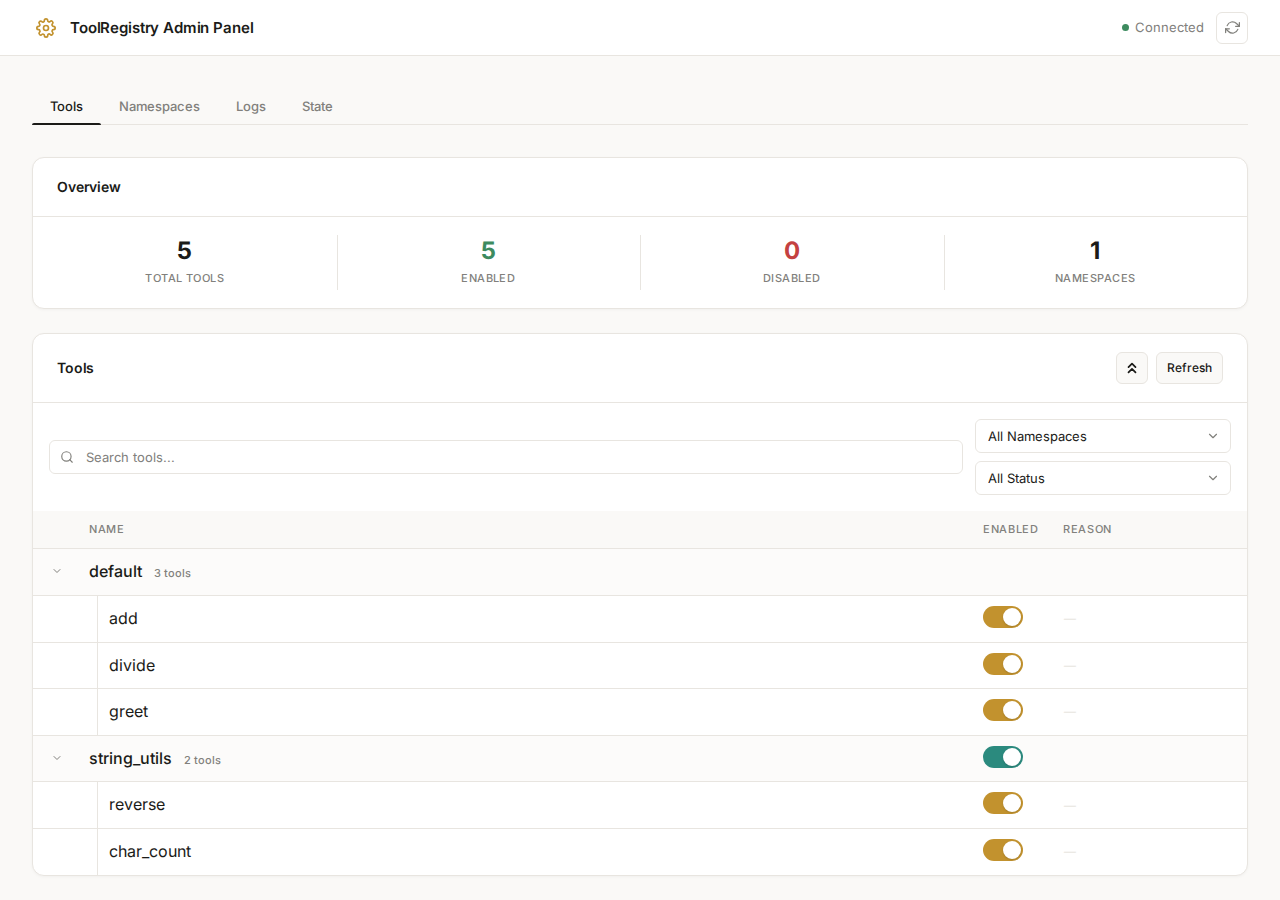
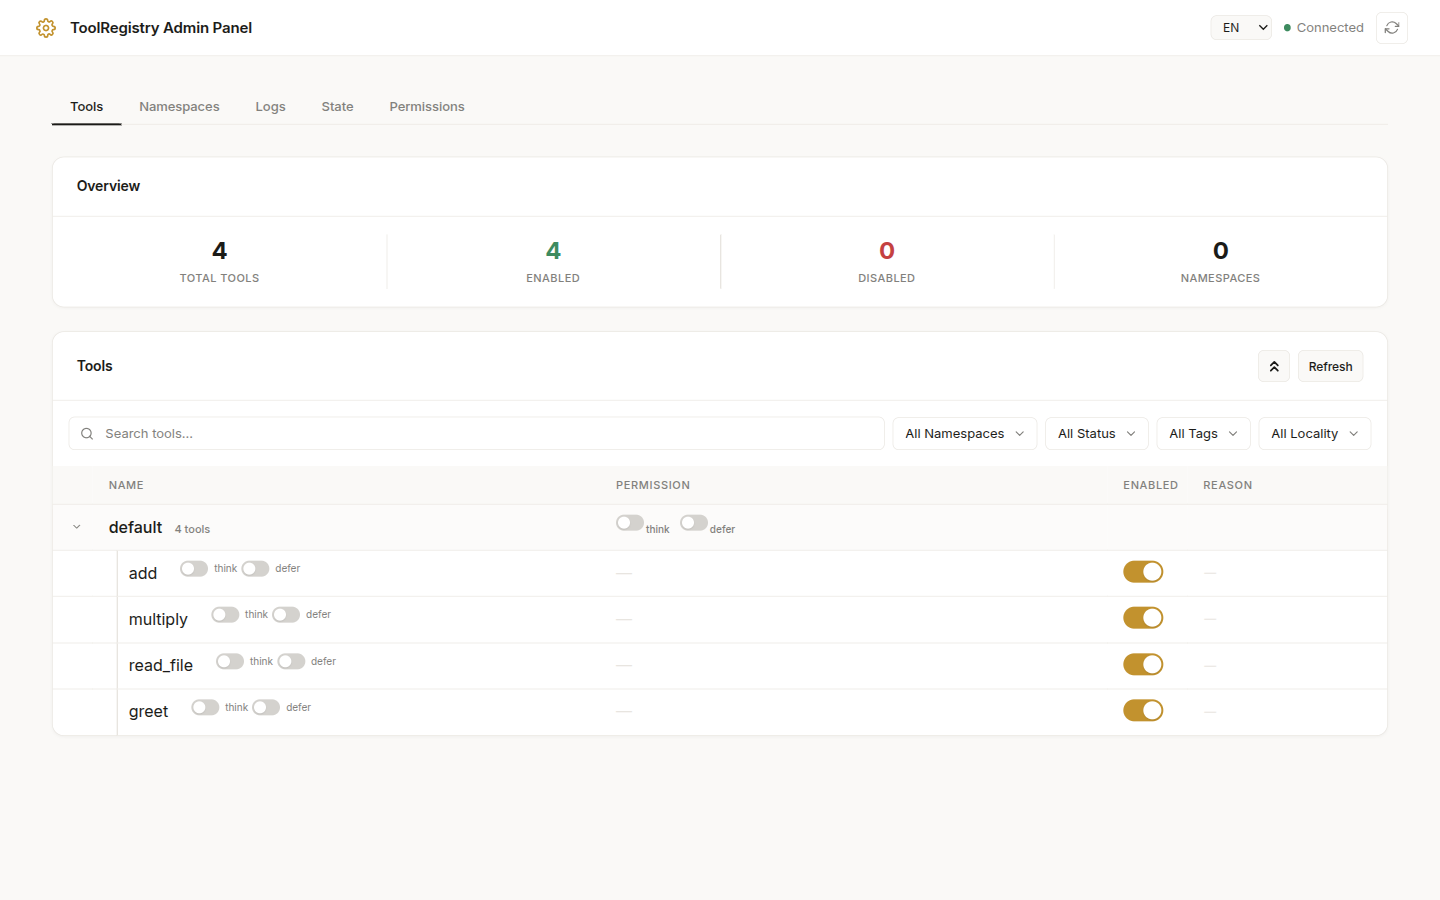
docs: add i18n section and update screenshots for admin panel

diff --git a/docs/changelog.md b/docs/changelog.md
@@ -34,6 +34,13 @@ This page documents all notable changes to the ToolRegistry project since the fi
     - Three-color toggle scheme: gold (enable/disable), teal (namespace), indigo (metadata) for visual hierarchy
     - Add 7 new tests for metadata update endpoints
 
+- **Admin Panel i18n** ([#137](../../pull/137))
+    - Add bilingual support (English / Chinese) to the admin Web UI
+    - Language switcher dropdown in the header with `localStorage` persistence
+    - All static text uses `data-i18n` attributes; dynamic text uses `t(key, params)` translation function
+    - Covers all tabs, table headers, buttons, filters, toast messages, modal dialogs, and empty states
+    - Instant language switching with automatic re-rendering of the active tab
+
 ### Refactoring
 
 - **Admin Panel Async Migration** ([#136](../../pull/136))

diff --git a/docs/admin/web-ui.md b/docs/admin/web-ui.md
@@ -65,3 +65,12 @@ Clicking a tool name opens a detail modal with three tabs:
 - Export current disabled state as JSON
 - Import previously exported state
 - Useful for backup/restore scenarios
+
+## Language Switching (i18n)
+
+The Web UI supports English and Chinese. A language switcher dropdown is located in the top-right corner of the header.
+
+- Select **EN** for English or **中文** for Chinese
+- The preference is persisted in `localStorage` and restored on next visit
+- All UI elements update immediately — tabs, table headers, buttons, filters, toast messages, modal dialogs, and empty states
+- Dynamic content (tool lists, log entries, statistics) is re-rendered in the selected language when switching

diff --git a/docs/admin/index.md b/docs/admin/index.md
@@ -20,6 +20,7 @@ The Admin Panel is designed with the following principles:
 - Monitor execution logs with filtering and statistics
 - Export/import registry state
 - Web UI for visual management with responsive layout
+- Bilingual interface (English / Chinese) with instant language switching
 
 ### Screenshots
 
